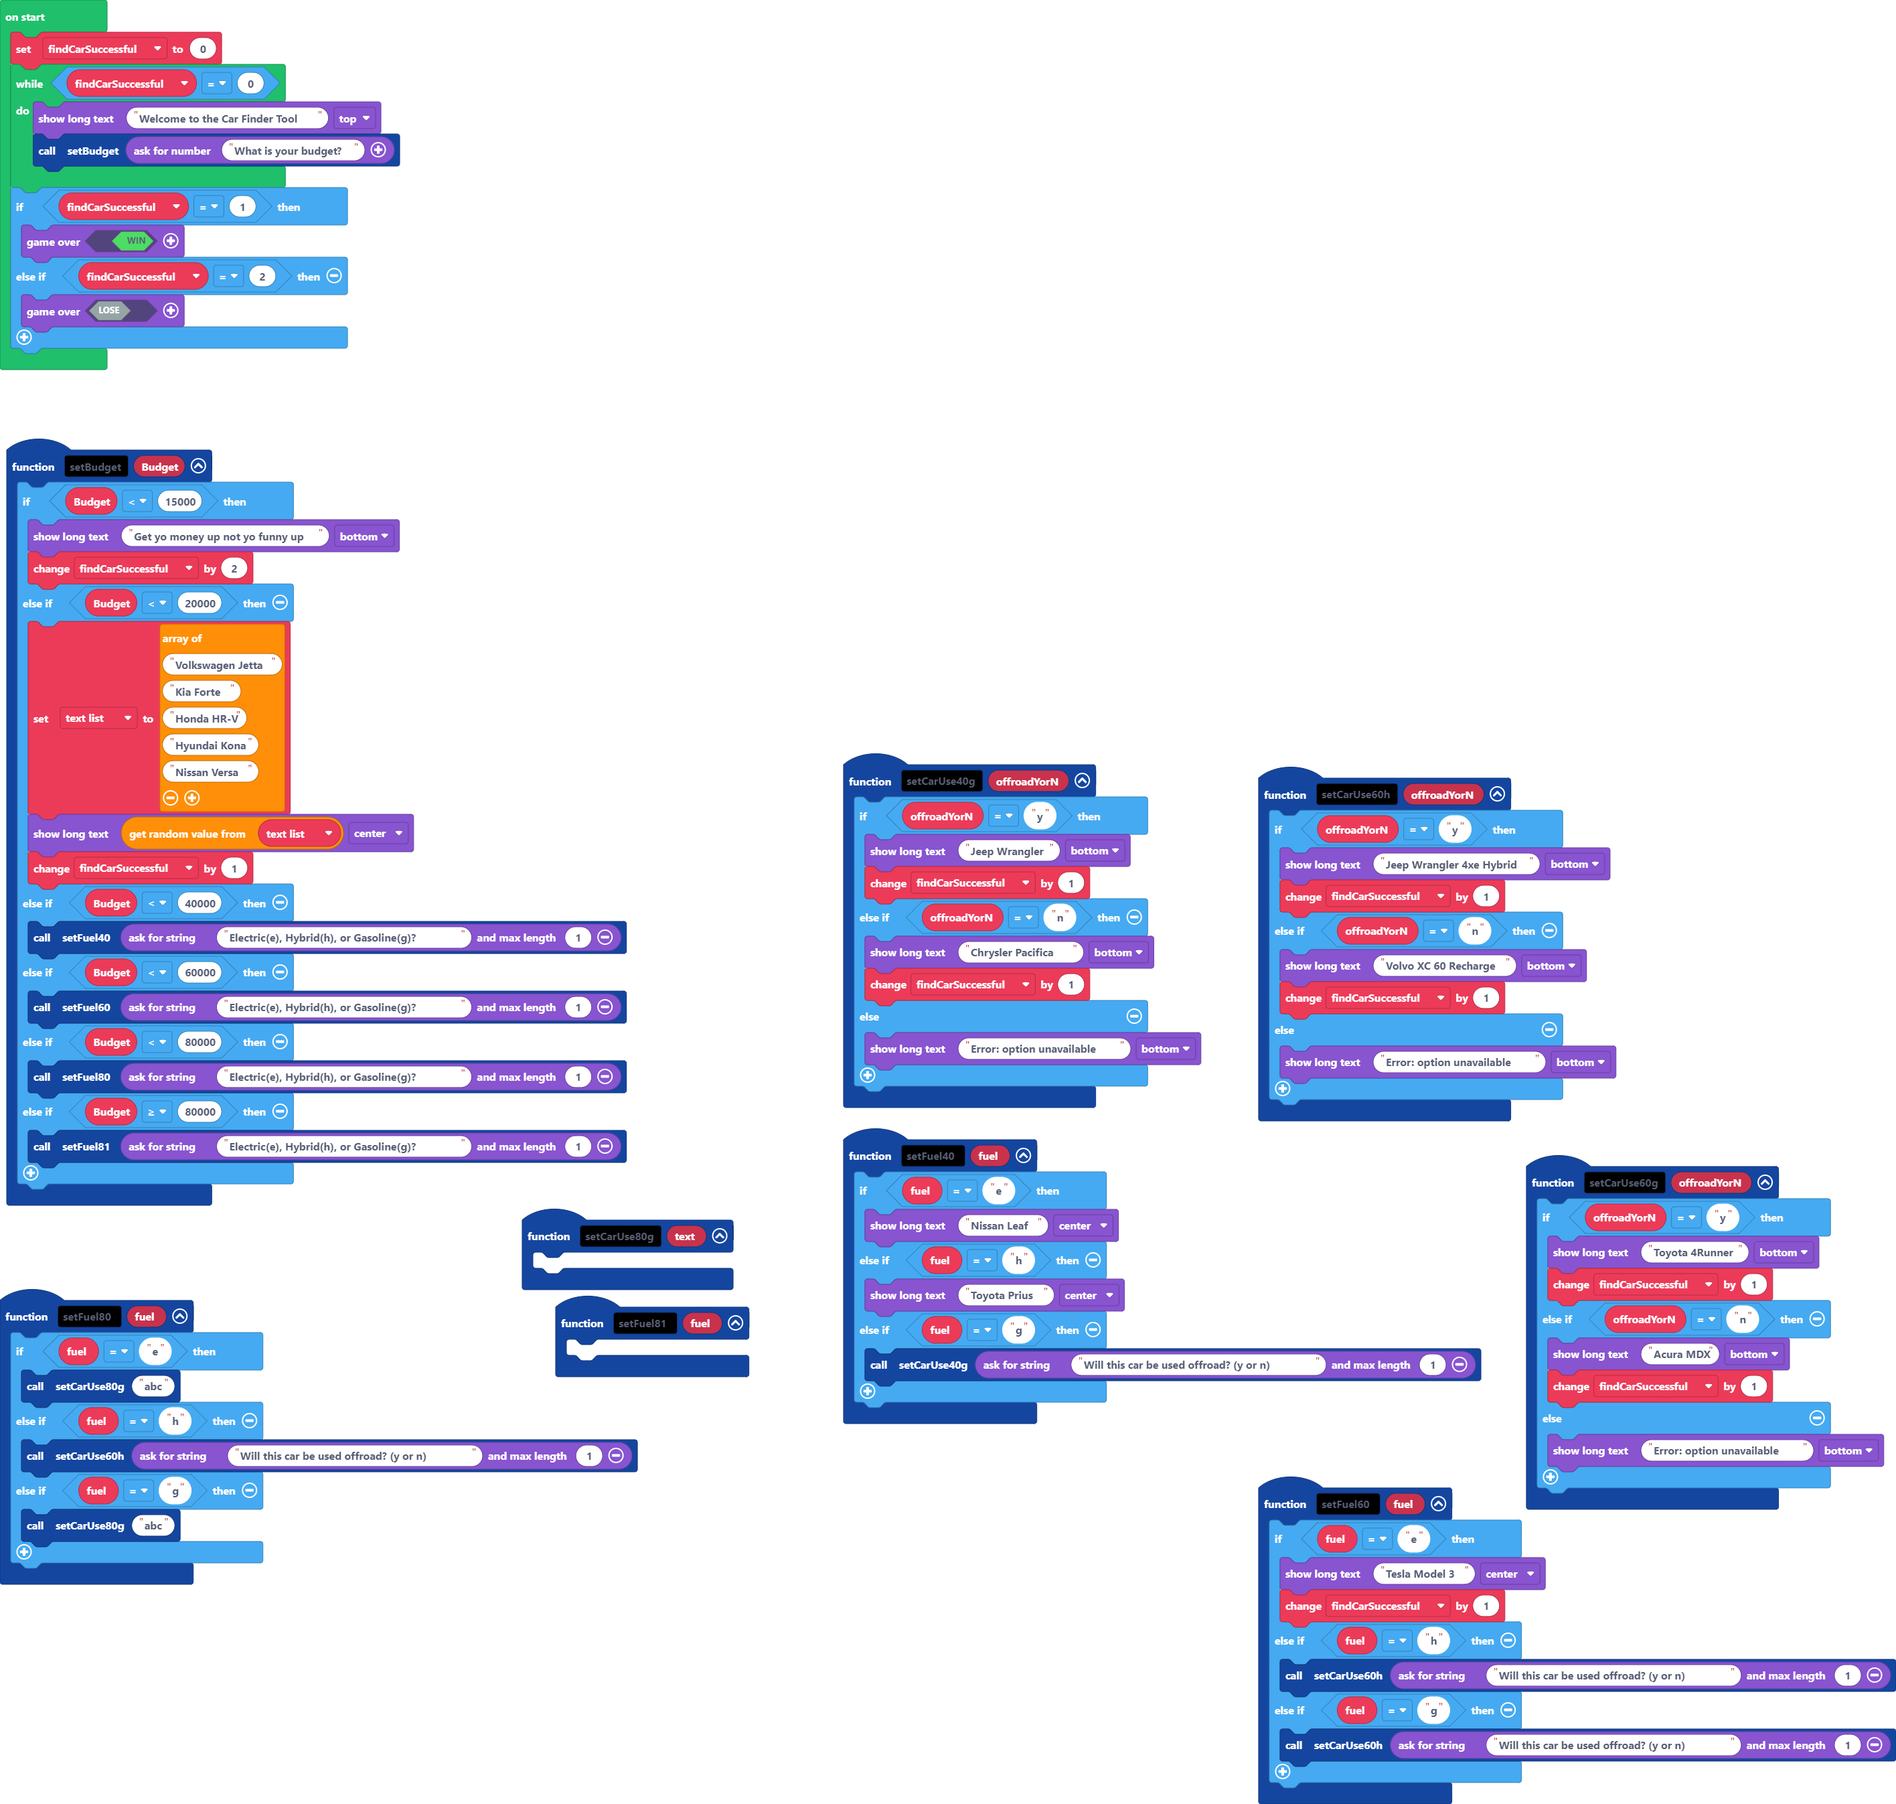
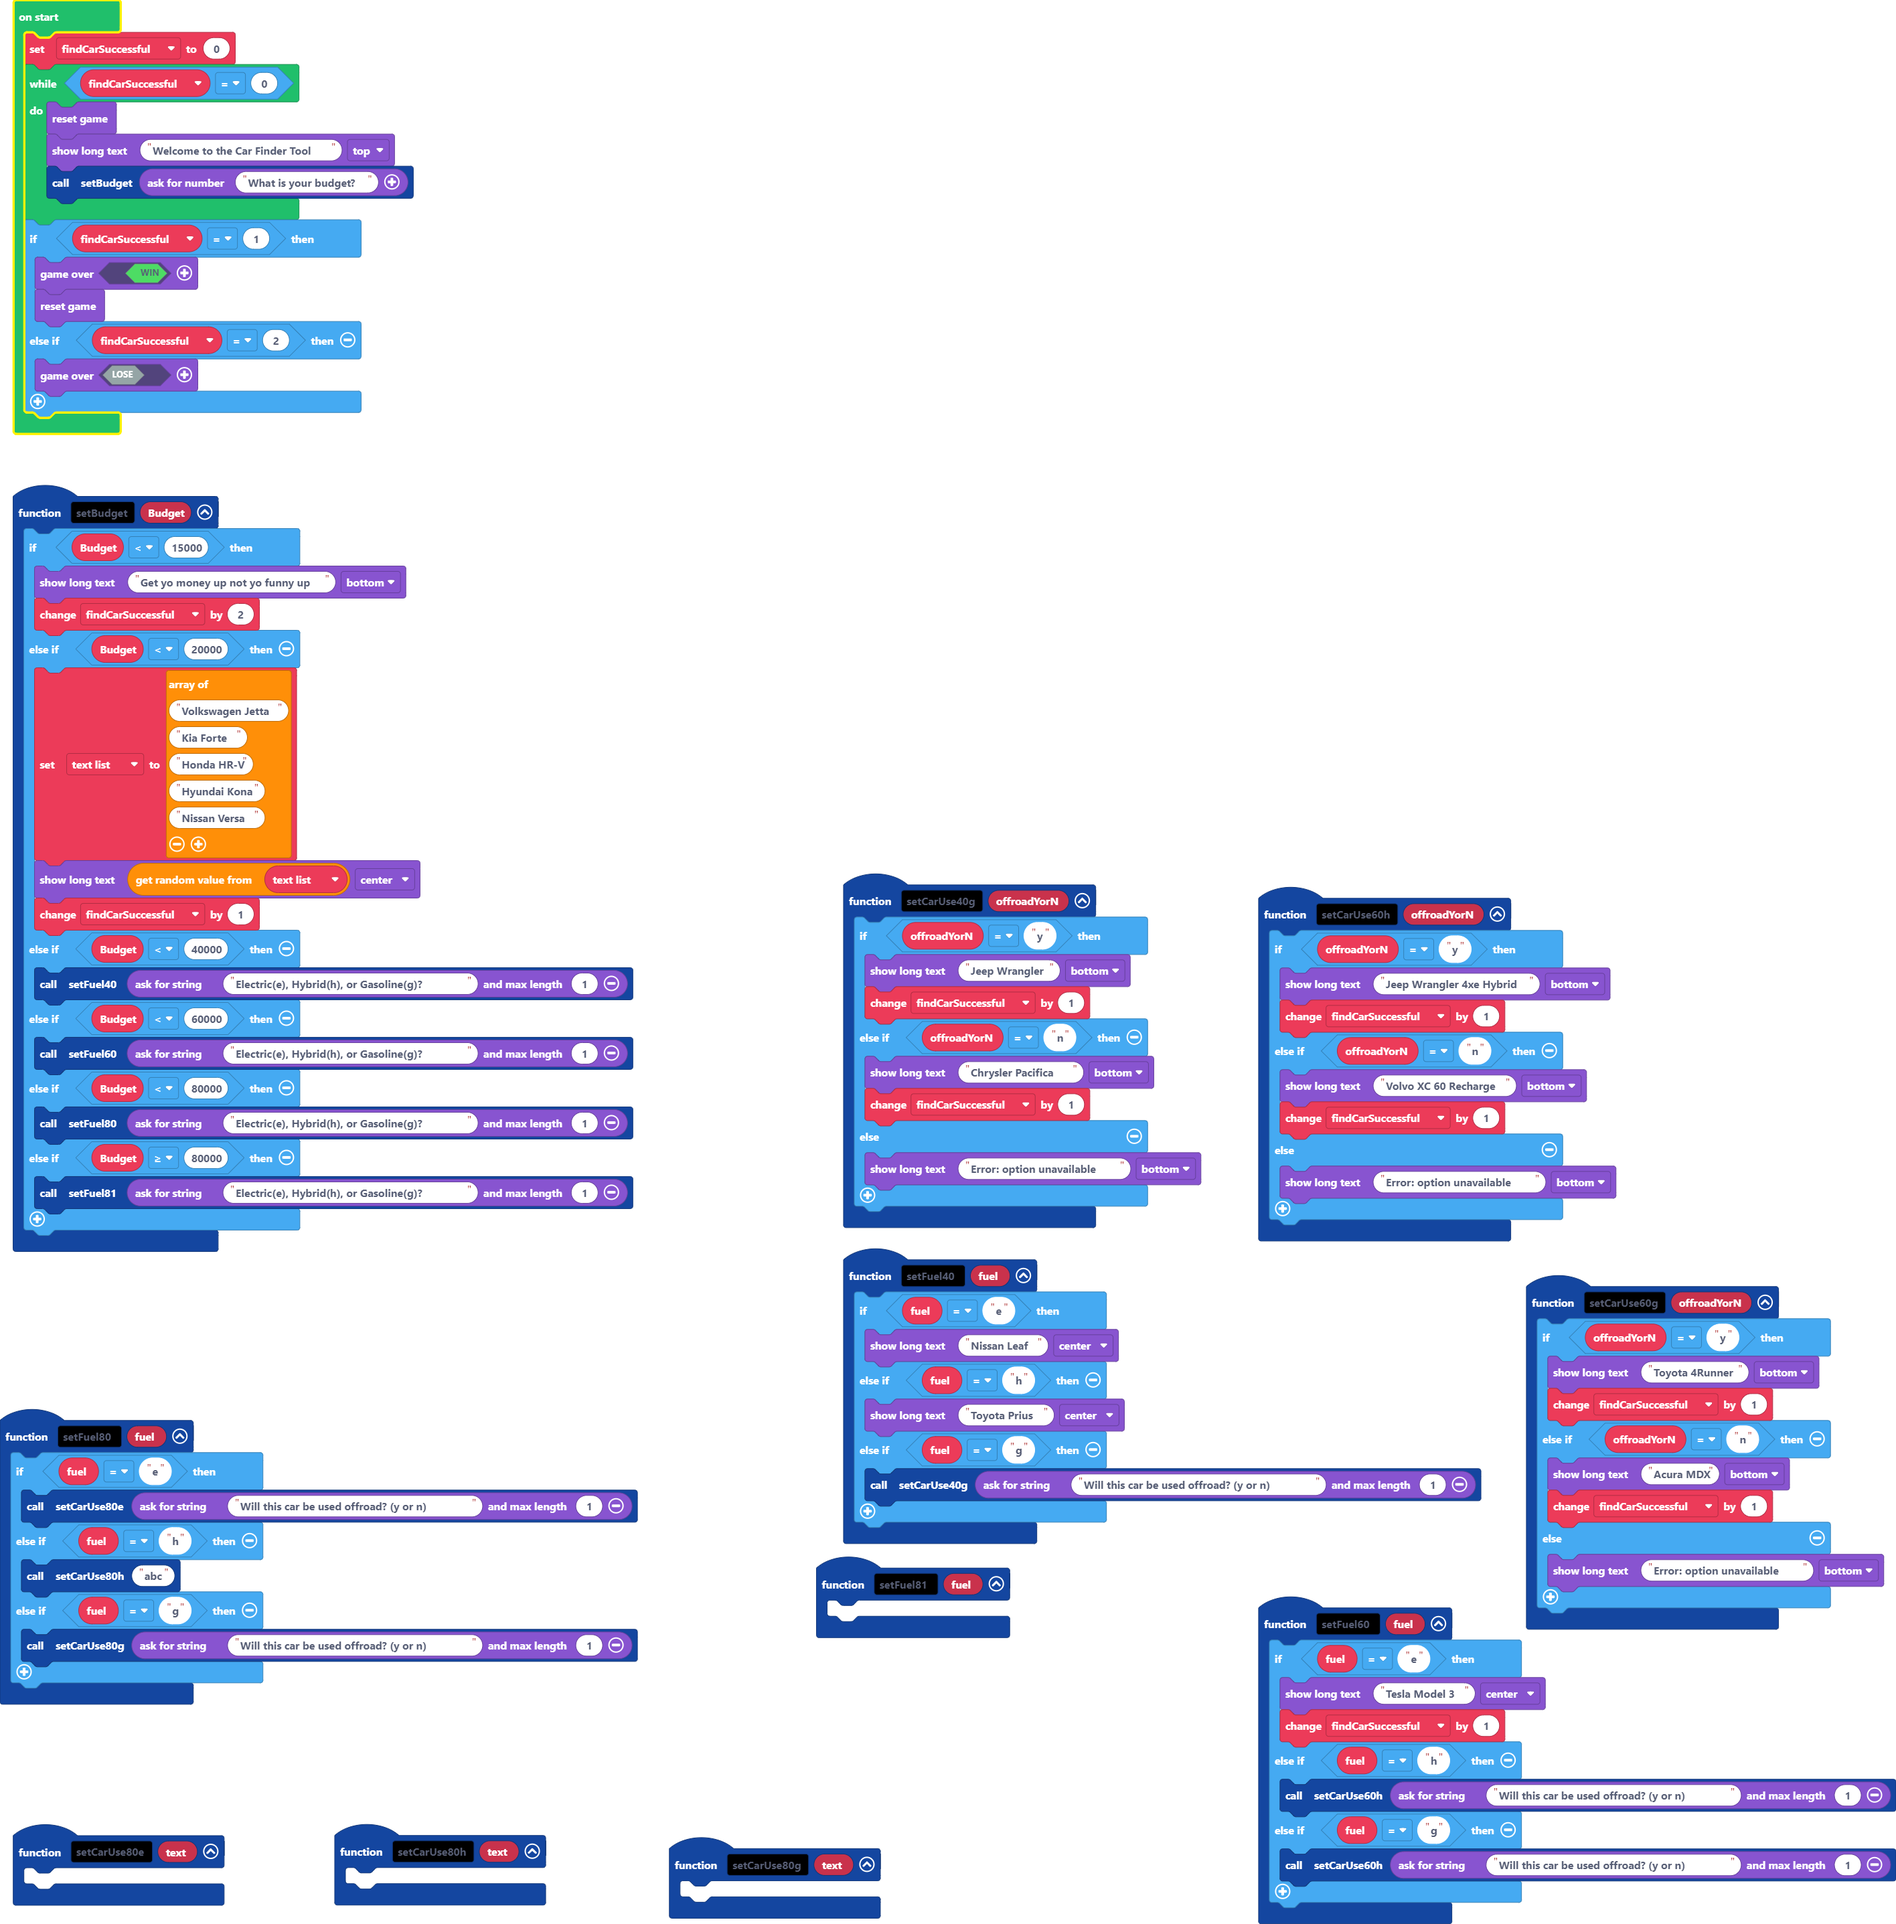
Update main.blocks, main.ts

diff --git a/main.ts b/main.ts
@@ -22,11 +22,11 @@ function setCarUse60g (offroadYorN: string) {
 }
 function setFuel80 (fuel: string) {
     if (fuel == "e") {
-        setCarUse80g("abc")
+        setCarUse80e(game.askForString("Will this car be used offroad? (y or n)", 1))
     } else if (fuel == "h") {
-        setCarUse60h(game.askForString("Will this car be used offroad? (y or n)", 1))
+        setCarUse80h("abc")
     } else if (fuel == "g") {
-        setCarUse80g("abc")
+        setCarUse80g(game.askForString("Will this car be used offroad? (y or n)", 1))
     }
 }
 function setBudget (Budget: number) {
@@ -65,6 +65,9 @@ function setFuel40 (fuel: string) {
 function setFuel81 (fuel: string) {
 	
 }
+function setCarUse80h (text: string) {
+	
+}
 function setCarUse40g (offroadYorN: string) {
     if (offroadYorN == "y") {
         game.showLongText("Jeep Wrangler", DialogLayout.Bottom)
@@ -75,6 +78,9 @@ function setCarUse40g (offroadYorN: string) {
     } else {
         game.showLongText("Error: option unavailable", DialogLayout.Bottom)
     }
+}
+function setCarUse80e (text: string) {
+	
 }
 function setFuel60 (fuel: string) {
     if (fuel == "e") {
@@ -92,11 +98,13 @@ function setCarUse80g (text: string) {
 let text_list: string[] = []
 let findCarSuccessful = 0
 while (findCarSuccessful == 0) {
+    game.reset()
     game.showLongText("Welcome to the Car Finder Tool", DialogLayout.Top)
     setBudget(game.askForNumber("What is your budget?"))
 }
 if (findCarSuccessful == 1) {
     game.over(true)
+    game.reset()
 } else if (findCarSuccessful == 2) {
     game.over(false)
 }
